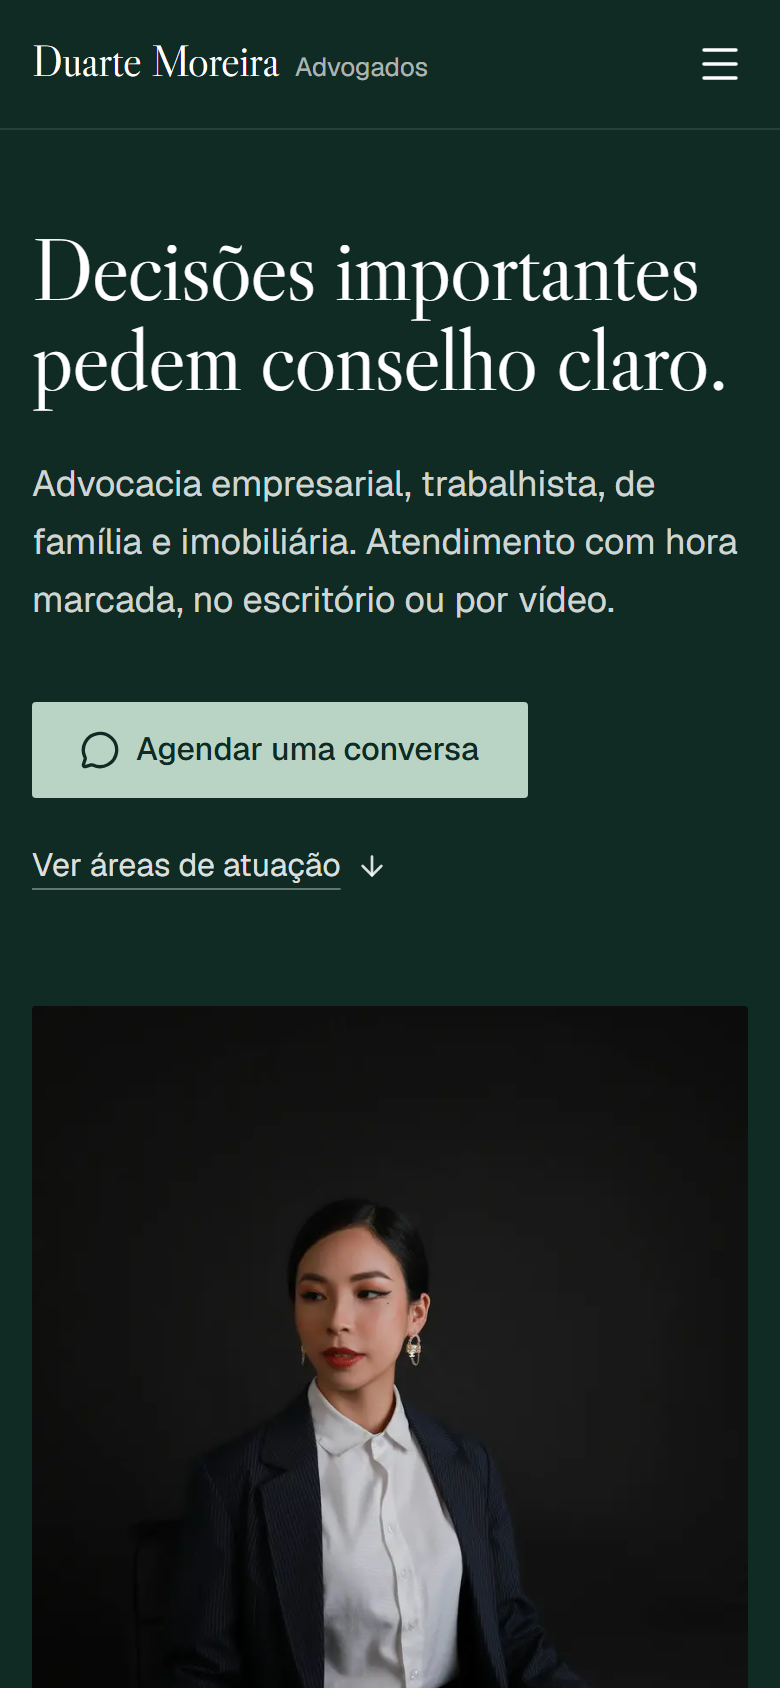
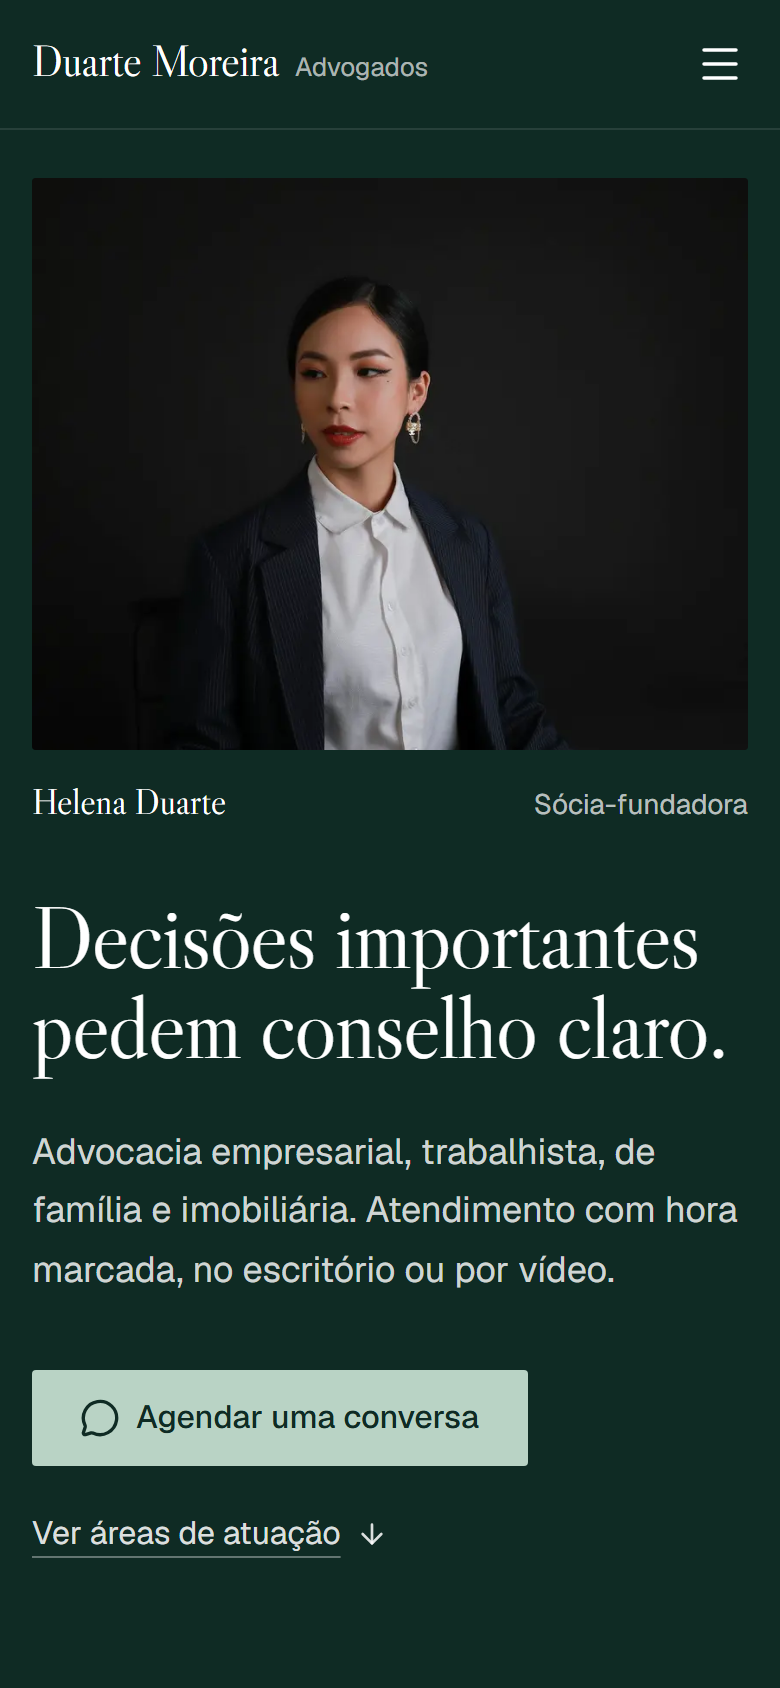
fix: acabamento dos sites do portfólio após a revisão de design
- Contabilidade: a foto genérica de calculadora dá lugar a uma amostra
  do relatório do mês (empresa e valores fictícios); o DAS do MEI no
  simulador muda com a atividade (INSS mais ICMS ou ISS); os serviços
  perdem a barrinha lateral.
- Advocacia: registro da sociedade na OAB no rodapé, marcado como
  fictício; no celular o retrato vem antes do título.
- Odontologia: CRO fictício da responsável técnica; o próximo horário
  livre sai de cima do título e vai para baixo dos botões.
- Arquitetura: o número e o prazo de cada etapa vêm abaixo do nome.

diff --git a/data/portfolio/contabilidade.ts b/data/portfolio/contabilidade.ts
@@ -3,7 +3,6 @@ import atelie from "@/public/imagens/portfolio/contabilidade/atelie.jpg";
 import bia from "@/public/imagens/portfolio/contabilidade/bia.jpg";
 import cozinha from "@/public/imagens/portfolio/contabilidade/cozinha.jpg";
 import loja from "@/public/imagens/portfolio/contabilidade/loja.jpg";
-import relatorio from "@/public/imagens/portfolio/contabilidade/relatorio.jpg";
 import reuniao from "@/public/imagens/portfolio/contabilidade/reuniao.jpg";
 import salao from "@/public/imagens/portfolio/contabilidade/salao.jpg";
 import socia from "@/public/imagens/portfolio/contabilidade/socia.jpg";
@@ -12,6 +11,13 @@ import type { Atividade } from "@/lib/regimes";
 
 // Escritório fictício. Planos e valores são ilustrativos. Fotos do Unsplash
 // (licença livre), salvas localmente.
+
+export type RelatorioDeExemplo = {
+  mes: string;
+  empresa: string;
+  linhas: { rotulo: string; centavos: number; total?: boolean }[];
+  avisos: { texto: string; emDia: boolean }[];
+};
 
 export type Plano = {
   nome: string;
@@ -42,8 +48,15 @@ export const contabilidade = {
     { rotulo: "Planos", href: "#planos" },
     { rotulo: "Contato", href: "#contato" },
   ],
-  /** DAS mensal do MEI usado no simulador (comércio e serviços, em reais). */
-  dasMei: 81.05,
+  /**
+   * DAS mensal do MEI no simulador, em reais: 5% do salário mínimo de INSS
+   * mais R$ 1 de ICMS (comércio e indústria) ou R$ 5 de ISS (serviços).
+   */
+  dasMei: {
+    comercio: 82.05,
+    industria: 82.05,
+    servicos: 86.05,
+  } satisfies Record<Atividade, number>,
   atividades: [
     { valor: "comercio", rotulo: "Comércio" },
     { valor: "servicos", rotulo: "Serviços" },
@@ -170,15 +183,27 @@ export const contabilidade = {
       src: reuniao,
       alt: "Equipe reunida em volta de uma mesa clara, conversando sobre documentos",
     } satisfies Imagem,
-    relatorio: {
-      src: relatorio,
-      alt: "Calculadora de celular sobre gráficos de um relatório financeiro",
-    } satisfies Imagem,
   },
+  relatorio: {
+    mes: "setembro",
+    empresa: "Ateliê Fio de Ouro",
+    linhas: [
+      { rotulo: "Faturamento", centavos: 4820000 },
+      { rotulo: "Despesas", centavos: 2975000 },
+      { rotulo: "Impostos (Simples)", centavos: 256400 },
+      { rotulo: "Lucro do mês", centavos: 1588600, total: true },
+    ],
+    avisos: [
+      { texto: "DAS de setembro pago em 18/09", emDia: true },
+      { texto: "Folha e FGTS enviados", emDia: true },
+      { texto: "Férias de uma funcionária em novembro", emDia: false },
+    ],
+  } satisfies RelatorioDeExemplo,
   contato: {
     endereco: "Rua XV de Novembro, 640, sala 32",
     bairro: "Centro",
     horario: "Segunda a sexta, das 8h30 às 17h30",
-    crc: "CRC 1SP 000000/O-0",
+    /** Registro no conselho: número fictício, só para mostrar onde ele entra. */
+    crc: "CRC UF-000000/O-0 (registro fictício)",
   },
 };

diff --git a/components/portfolio/contabilidade/RelatorioDoMes.tsx b/components/portfolio/contabilidade/RelatorioDoMes.tsx
@@ -1,0 +1,74 @@
+import { Check, Clock } from "lucide-react";
+import type { RelatorioDeExemplo } from "@/data/portfolio/contabilidade";
+import { classes } from "@/lib/classes";
+import { formatarPreco } from "@/lib/formato";
+
+/**
+ * A página que o cliente recebe todo mês, desenhada como amostra: os quatro
+ * números do mês e o que está em dia ou pede atenção. Valores fictícios.
+ */
+export function RelatorioDoMes({
+  relatorio,
+}: {
+  relatorio: RelatorioDeExemplo;
+}) {
+  return (
+    <figure className="rounded-tema border border-borda bg-fundo p-6 shadow-[0_18px_40px_-28px_rgb(16_42_67/0.45)]">
+      <div className="flex items-baseline justify-between gap-4 border-b border-borda pb-4">
+        <p className="font-semibold">Relatório de {relatorio.mes}</p>
+        <p className="text-sm text-texto-suave">{relatorio.empresa}</p>
+      </div>
+      <dl className="divide-y divide-borda">
+        {relatorio.linhas.map((linha) => (
+          <div
+            key={linha.rotulo}
+            className="flex items-baseline justify-between gap-4 py-3"
+          >
+            <dt
+              className={classes(
+                "text-[0.9375rem]",
+                linha.total ? "font-semibold" : "text-texto-suave",
+              )}
+            >
+              {linha.rotulo}
+            </dt>
+            <dd
+              className={classes(
+                "numero",
+                linha.total ? "text-2xl font-bold tracking-[-0.03em]" : "",
+              )}
+            >
+              {formatarPreco(linha.centavos)}
+            </dd>
+          </div>
+        ))}
+      </dl>
+      <ul className="mt-4 grid gap-2 text-sm">
+        {relatorio.avisos.map((aviso) => (
+          <li key={aviso.texto} className="flex items-center gap-2.5">
+            <span
+              aria-hidden
+              className={classes(
+                "grid size-5 shrink-0 place-items-center rounded-full text-[var(--cor-tinta)]",
+                aviso.emDia ? "bg-[var(--cor-menta)]" : "bg-[var(--cor-ambar)]",
+              )}
+            >
+              {aviso.emDia ? (
+                <Check className="size-3.5" strokeWidth={3} />
+              ) : (
+                <Clock className="size-3.5" strokeWidth={2.5} />
+              )}
+            </span>
+            {aviso.texto}
+            <span className="sr-only">
+              {aviso.emDia ? " (em dia)" : " (pede atenção)"}
+            </span>
+          </li>
+        ))}
+      </ul>
+      <figcaption className="mt-5 text-xs text-texto-suave">
+        Exemplo ilustrativo, com empresa e valores fictícios.
+      </figcaption>
+    </figure>
+  );
+}

diff --git a/app/portfolio/contabilidade/page.tsx b/app/portfolio/contabilidade/page.tsx
@@ -3,6 +3,7 @@ import type { Metadata, Viewport } from "next";
 import Image from "next/image";
 import { AssinaturaDoPortfolio } from "@/components/portfolio/AssinaturaDoPortfolio";
 import { CabecalhoDoPortfolio } from "@/components/portfolio/CabecalhoDoPortfolio";
+import { RelatorioDoMes } from "@/components/portfolio/contabilidade/RelatorioDoMes";
 import { SimuladorDeRegime } from "@/components/portfolio/contabilidade/SimuladorDeRegime";
 import { Carrossel } from "@/components/ui/Carrossel";
 import { Container } from "@/components/ui/Container";
@@ -175,28 +176,17 @@ export default function PaginaContabilidade() {
           <Container largura="larga" className="grid gap-12 lg:grid-cols-12">
             <div className="lg:col-span-4">
               <h2 id="servicos-titulo">Do CNPJ ao relatório do mês</h2>
-              <div className="relative mt-10 hidden aspect-[3/4] overflow-hidden rounded-tema lg:block">
-                <Image
-                  src={dados.imagens.relatorio.src}
-                  alt={dados.imagens.relatorio.alt}
-                  fill
-                  sizes="30vw"
-                  className="object-cover"
-                  placeholder="blur"
-                />
+              <div className="mt-10">
+                <RelatorioDoMes relatorio={dados.relatorio} />
               </div>
             </div>
             <ul className="grid content-start gap-x-10 sm:grid-cols-2 lg:col-span-8">
               {dados.servicos.map((servico) => (
                 <li key={servico.titulo} className="border-t border-borda py-7">
-                  <h3 className="flex items-center gap-3 text-xl font-semibold tracking-[-0.02em]">
-                    <span
-                      aria-hidden
-                      className="h-5 w-1 rounded-full bg-destaque"
-                    />
+                  <h3 className="text-xl font-semibold tracking-[-0.02em]">
                     {servico.titulo}
                   </h3>
-                  <p className="mt-2 pl-4 leading-relaxed text-texto-suave">
+                  <p className="mt-2 leading-relaxed text-texto-suave">
                     {servico.texto}
                   </p>
                 </li>

diff --git a/app/portfolio/advocacia/page.tsx b/app/portfolio/advocacia/page.tsx
@@ -68,7 +68,7 @@ export default function PaginaAdvocacia() {
         >
           <Container
             largura="larga"
-            className="grid gap-12 pt-12 pb-14 lg:grid-cols-12 lg:items-end lg:gap-14 lg:pt-20 lg:pb-20"
+            className="grid gap-8 pt-6 pb-14 lg:grid-cols-12 lg:items-end lg:gap-14 lg:pt-20 lg:pb-20"
           >
             <div className="lg:col-span-7 lg:pb-6">
               <h1
@@ -101,15 +101,16 @@ export default function PaginaAdvocacia() {
               </div>
             </div>
 
-            <figure className="lg:col-span-5">
-              <div className="retrato-entra relative aspect-[4/5] overflow-hidden rounded-tema bg-[var(--cor-floresta-funda)] sm:aspect-[5/4] lg:aspect-[4/5]">
+            {/* No celular o retrato vem antes do título, num recorte largo. */}
+            <figure className="order-first lg:order-none lg:col-span-5">
+              <div className="retrato-entra relative aspect-[5/4] overflow-hidden rounded-tema bg-[var(--cor-floresta-funda)] lg:aspect-[4/5]">
                 <Image
                   src={dados.socia.imagem.src}
                   alt={dados.socia.imagem.alt}
                   fill
                   preload
                   sizes="(min-width: 1280px) 500px, (min-width: 1024px) 40vw, 100vw"
-                  className="object-cover object-[50%_25%]"
+                  className="object-cover object-[50%_28%] lg:object-[50%_25%]"
                   placeholder="blur"
                 />
               </div>
@@ -329,6 +330,7 @@ export default function PaginaAdvocacia() {
                 {dados.contato.endereco} · {dados.contato.bairro}
               </p>
               <p className="mt-1">{dados.contato.horario}</p>
+              <p className="mt-1">{dados.contato.registro}</p>
             </div>
           </div>
           <AssinaturaDoPortfolio className="border-t border-white/10 pt-6 text-sm text-white/60" />

diff --git a/app/portfolio/odontologia/page.tsx b/app/portfolio/odontologia/page.tsx
@@ -69,10 +69,9 @@ export default function PaginaOdontologia() {
             className="grid gap-10 pt-8 pb-16 lg:grid-cols-12 lg:items-center lg:gap-12 lg:pt-12 lg:pb-24"
           >
             <div className="lg:col-span-6">
-              <ProximoHorario turnos={dados.turnos} />
               <h1
                 id="titulo-principal"
-                className="mt-7 text-[clamp(2.75rem,10.5vw,5.25rem)] leading-[1] text-balance"
+                className="text-[clamp(2.75rem,10.5vw,5.25rem)] leading-[1] text-balance"
               >
                 {inicioDoTitulo}
                 <span className="text-destaque">{dados.destaqueDoTitulo}</span>
@@ -93,6 +92,9 @@ export default function PaginaOdontologia() {
                 >
                   Tratamentos
                 </a>
+              </div>
+              <div className="mt-5">
+                <ProximoHorario turnos={dados.turnos} />
               </div>
             </div>
 
@@ -384,7 +386,8 @@ export default function PaginaOdontologia() {
             <p className="sm:text-right">
               {dados.endereco.logradouro} · {dados.endereco.bairro}
               <br />
-              Responsável técnica: Dra. Marina Lopes
+              Responsável técnica: Dra. Marina Lopes · CRO-UF 00000 (registro
+              fictício)
             </p>
           </div>
           <AssinaturaDoPortfolio className="border-t border-white/10 pt-6 text-sm text-white/60" />

diff --git a/app/portfolio/arquitetura/page.tsx b/app/portfolio/arquitetura/page.tsx
@@ -127,12 +127,12 @@ export default function PaginaArquitetura() {
                   key={passo.etapa}
                   className="border-b border-borda py-8 sm:pr-8 lg:border-r lg:border-b-0 lg:px-6 lg:first:pl-0 lg:last:border-r-0"
                 >
-                  <p className="numero text-sm text-texto-suave">
-                    {String(i + 1).padStart(2, "0")} · {passo.prazo}
-                  </p>
-                  <h3 className="mt-6 text-[2rem] leading-none font-semibold tracking-[-0.02em] [font-stretch:75%] uppercase">
+                  <h3 className="text-[2rem] leading-none font-semibold tracking-[-0.02em] [font-stretch:75%] uppercase">
                     {passo.etapa}
                   </h3>
+                  <p className="numero mt-2 text-sm text-texto-suave">
+                    Etapa {i + 1} · {passo.prazo}
+                  </p>
                   <p className="mt-4 leading-relaxed text-texto-suave">
                     {passo.texto}
                   </p>

diff --git a/components/portfolio/contabilidade/SimuladorDeRegime.tsx b/components/portfolio/contabilidade/SimuladorDeRegime.tsx
@@ -10,7 +10,8 @@ type Props = {
   nomeDoSite: string;
   atividades: { valor: Atividade; rotulo: string }[];
   faturamento: { minimo: number; maximo: number; inicial: number };
-  dasMei: number;
+  /** DAS mensal do MEI de cada atividade, em reais. */
+  dasMei: Record<Atividade, number>;
 };
 
 const reais = new Intl.NumberFormat("pt-BR", {
@@ -62,7 +63,7 @@ export function SimuladorDeRegime({
 
   const mensal = paraValor(posicao, faturamento.minimo, faturamento.maximo);
   const anual = mensal * 12;
-  const resultado = enquadrar(anual, atividade, dasMei);
+  const resultado = enquadrar(anual, atividade, dasMei[atividade]);
   const nomeDaAtividade =
     atividades.find((a) => a.valor === atividade)?.rotulo.toLowerCase() ?? "";
   const progresso = `${posicao / 10}%`;

diff --git a/data/portfolio/advocacia.ts b/data/portfolio/advocacia.ts
@@ -244,5 +244,7 @@ export const advocacia = {
     endereco: "Av. das Acácias, 1200, sala 804",
     bairro: "Centro",
     horario: "Segunda a sexta, das 9h às 18h",
+    /** Registro da sociedade na OAB: número fictício, só para mostrar onde ele entra. */
+    registro: "Sociedade de advogados · OAB/UF 00.000 (registro fictício)",
   },
 };
